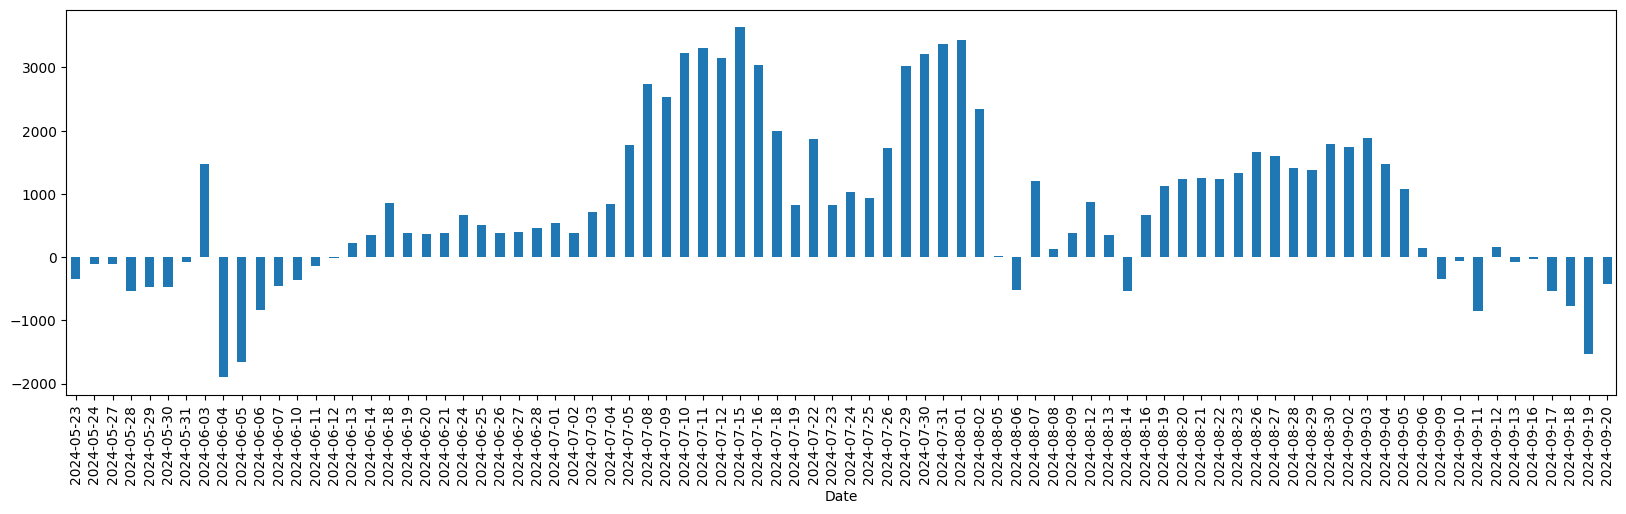
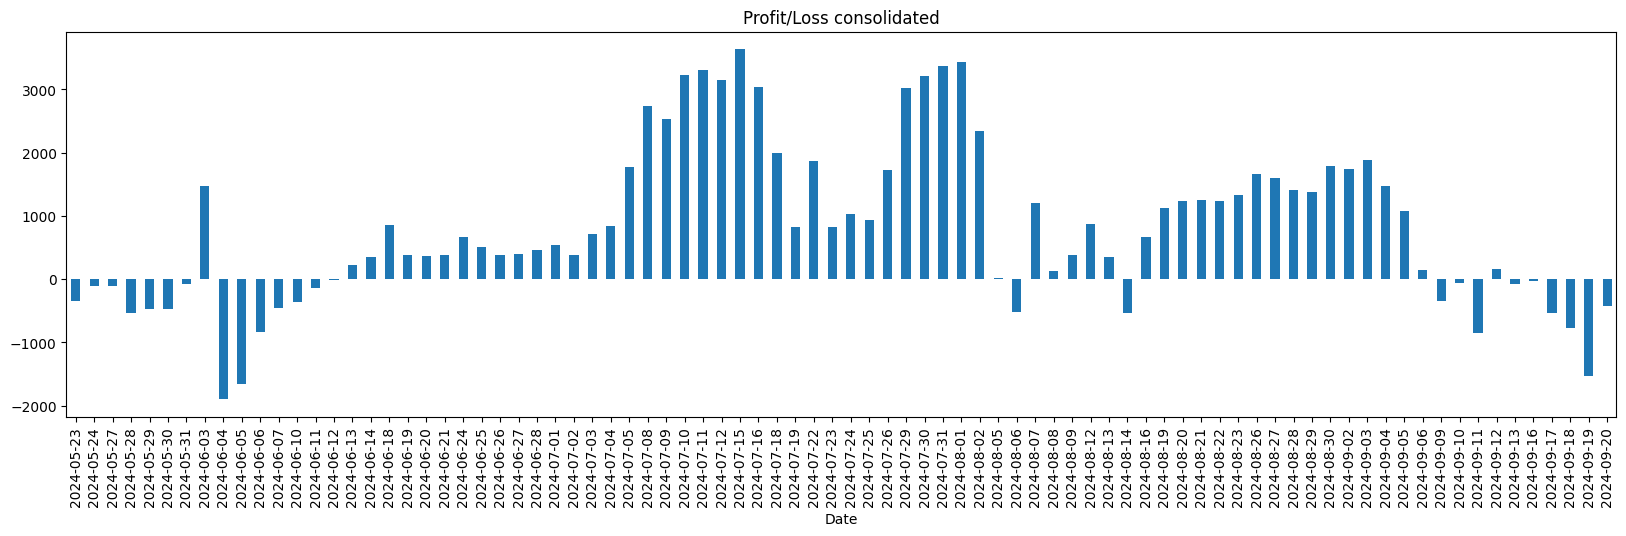
changed consolidated plot

diff --git a/README.md b/README.md
@@ -1,4 +1,4 @@
 Consolidated day-wise profit/loss tracker curated for your own precise investments
 
-![pl_2024-05-23_2024_09-20](https://github.com/user-attachments/assets/100f21f7-fff4-44a9-9922-f1387e188fcc)
-![pl_2024-05-23_2024_09-20_consolidated](https://github.com/user-attachments/assets/2b7a0402-5ee3-4cd8-b9ed-553a40fb6b81)
+![alt text](out/pl_2024-05-23_2024_09-20.png)
+![alt text](out/pl_2024-05-23_2024_09-20_consolidated.png)
